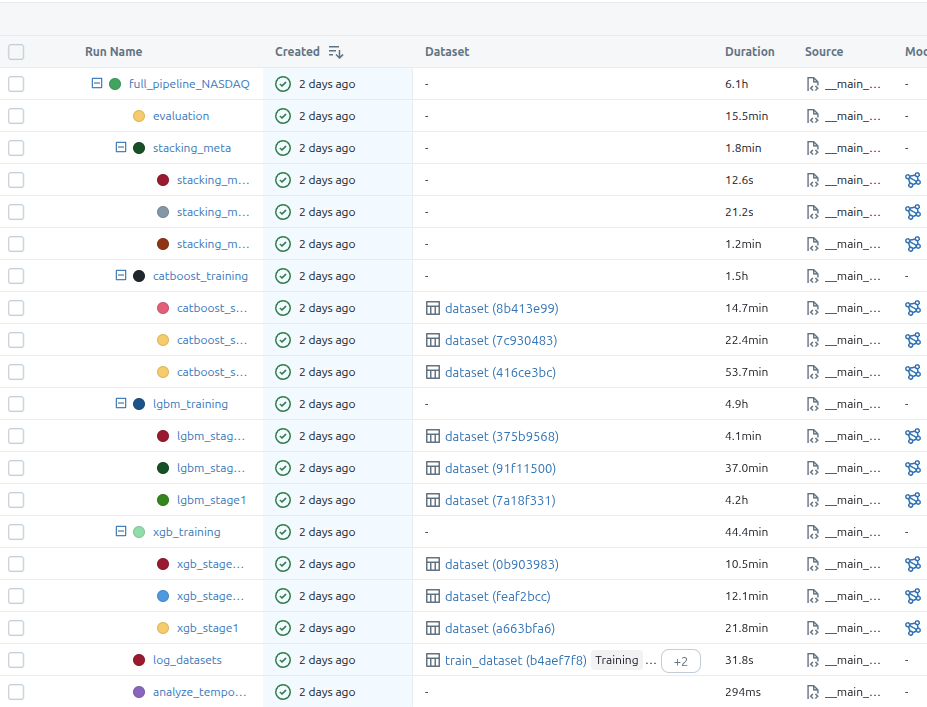
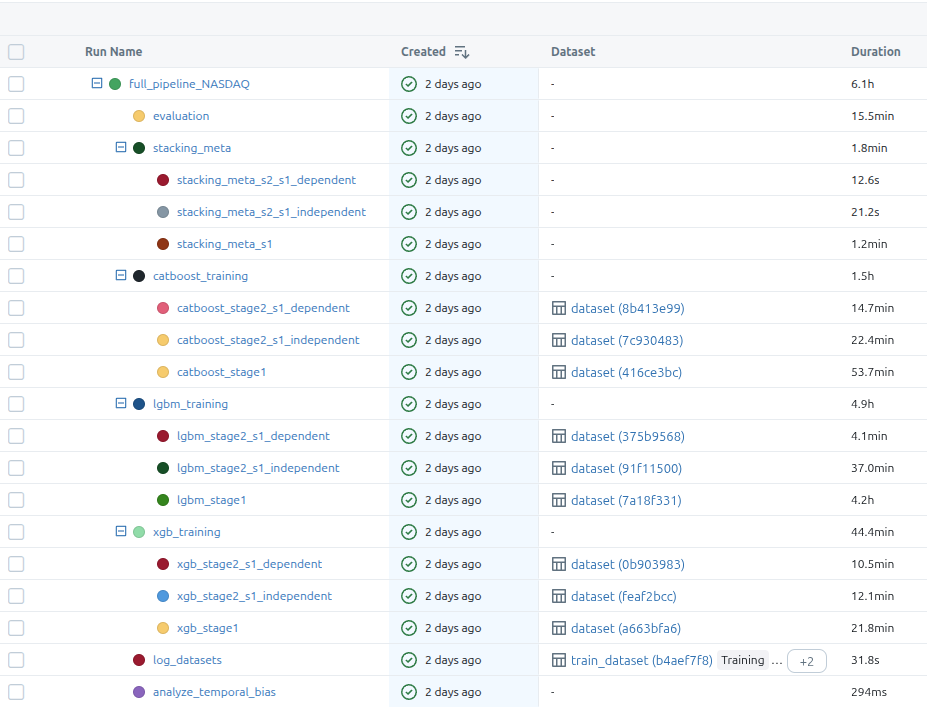
tree based models

diff --git a/_posts/2026-02-15-building-a-tree-based-model-training-pipeline-with-scoring.md b/_posts/2026-02-15-building-a-tree-based-model-training-pipeline-with-scoring.md
@@ -253,5 +253,72 @@ Before I jump on the code, I'll show you how the experiment is saved in mlflow -
 
 <p>
     <img src="https://mmalek06.github.io/images/mlflow_with_models_collapsed.png">
+    <br />
     <img src="https://mmalek06.github.io/images/mlflow_with_models_expanded.png">
 </p>
+
+The first image shows all the steps and the second one includes the model training substeps. There are two stages in the training, like I mentioned in the requirements section of this post, but what I didn't mention there is that the second stage also has two branches. The dependent model trains on the outputs from s1 model and the independent one, well, it's independent so it trains on the same data that's used by s1 training, but it optimizes for a different metric.
+
+After all base models are trained, I'm also training some stacking meta-models that are supposed to further improve the initial predictions.
+
+Now the main training function:
+
+```python
+async def train_full_pipeline(
+        exchange: str,
+        months_of_data: int,
+        val_months: int = 12,
+        test_months: int = 12,
+        n_trials_s1: int = 350,
+        n_trials_s2: int = 350,
+        data_to: date | None = None,
+) -> PipelineResult:
+    run_name = f"full_pipeline_{exchange}"
+
+    with mlflow.start_run(run_name=run_name) as run:
+        mlflow.log_params(dict(
+            months_of_data=months_of_data,
+            val_months=val_months,
+            test_months=test_months,
+            n_trials_s1=n_trials_s1,
+            n_trials_s2=n_trials_s2,
+            exchange=exchange,
+        ))
+        if data_to is not None:
+            mlflow.log_param("data_to", str(data_to))
+
+        trained_models, df_test = await _train_models_only(
+            months_of_data=months_of_data,
+            val_months=val_months,
+            test_months=test_months,
+            n_trials_s1=n_trials_s1,
+            n_trials_s2=n_trials_s2,
+            exchange=exchange,
+            parent_run_id=run.info.run_id,
+            data_to=data_to,
+        )
+
+        with mlflow.start_run(run_name="evaluation", nested=True):
+            all_evaluations = evaluate_models_on_data(trained_models, df_test)
+            best = select_best_pipeline(all_evaluations)
+
+            _log_evaluation_to_mlflow(all_evaluations, best, trained_models)
+
+    return PipelineResult(
+        trained_models=trained_models,
+        best_s1_mode=best.s1_mode,
+        best_s2_mode=best.s2_mode,
+        best_s2_training_mode=best.s2_training_mode,
+        all_evaluations=all_evaluations,
+        best_metrics=best.metrics,
+        best_validation=best.validation,
+    )
+```
+
+I think it's rather cleanly written, but just for completeness, the most important parts are:
+
+1. start mlflow run under which all will be put
+2. train the models
+3. run evaluation
+  3.1 evaluate the models on test data
+  3.2 save the best models (which I'm calling pipeline here)
